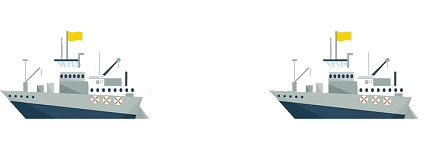
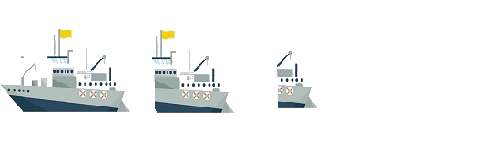
хм
хм....

diff --git a/БОЙ/src/Пущщы.html b/БОЙ/src/Пущщы.html
@@ -101,9 +101,9 @@ this.time = 0;
 var monster =
 {
 //Размер каждого кадра и число столбцов в наборе фреймов
-IMAGE: "ship.png",
+IMAGE: "ship2.png",
 SIZE: 128,
-COLUMNS: 3,
+COLUMNS: 5,
 //Номер последнего кадра анимации и номер текущего кадра
 numberOfFrames: 5,
 currentFrame: 0,
@@ -156,7 +156,7 @@ case this.JUMPING:
 //forward меняет свое значение на false
 if(this.currentFrame === this.numberOfFrames)
 {
-this.forward = false;
+this.currentFrame=-1;
 }
 //Если это начальный кадр, свойство forward
 //меняет свое значение на true
@@ -334,8 +334,7 @@ output.innerHTML = "Корэблей с пупуасами уничтожено:
 </script>
 </head>
 <body>
-
-	<script>
+<script>
 		var korablik=
 		{
 			//Размер каждого кадра и число столбцов в наборе фреймов
@@ -393,7 +392,7 @@ case this.JUMPING:
 //forward меняет свое значение на false
 if(this.currentFrame === this.numberOfFrames)
 {
-this.forward = false;
+this.currentFrame=-1;
 }
 //Если это начальный кадр, свойство forward
 //меняет свое значение на true
